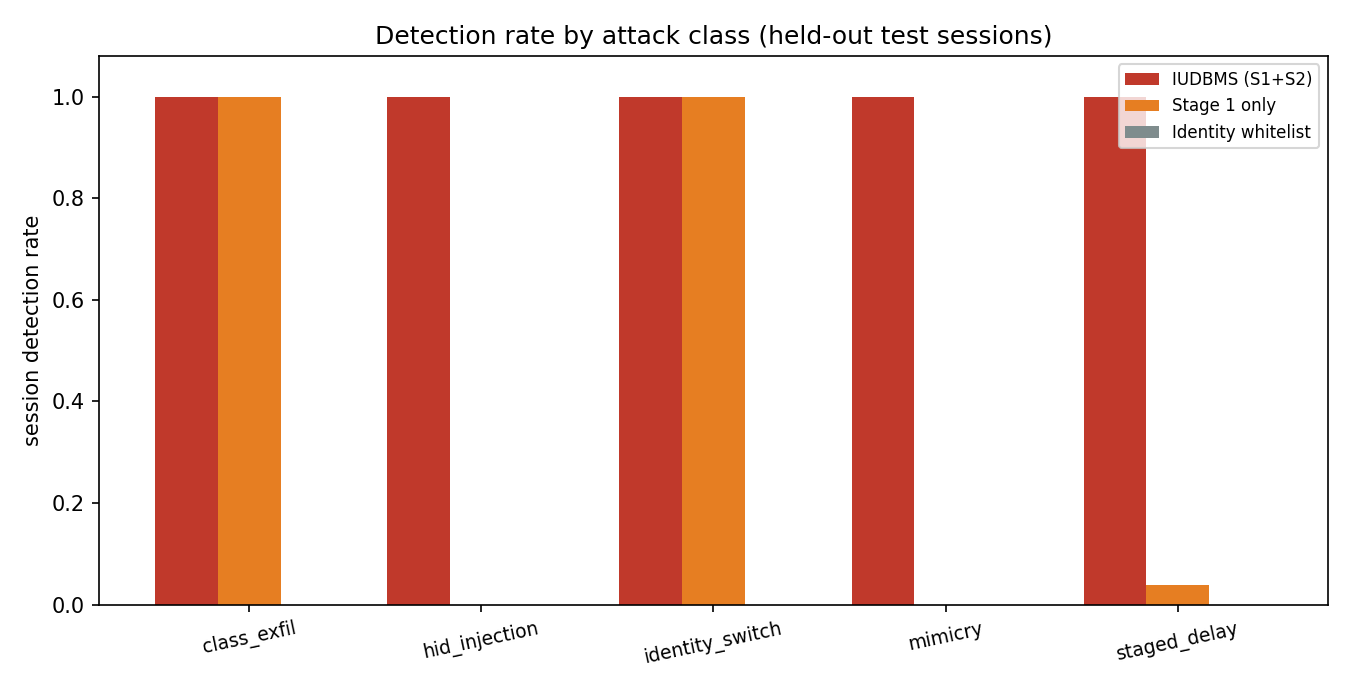
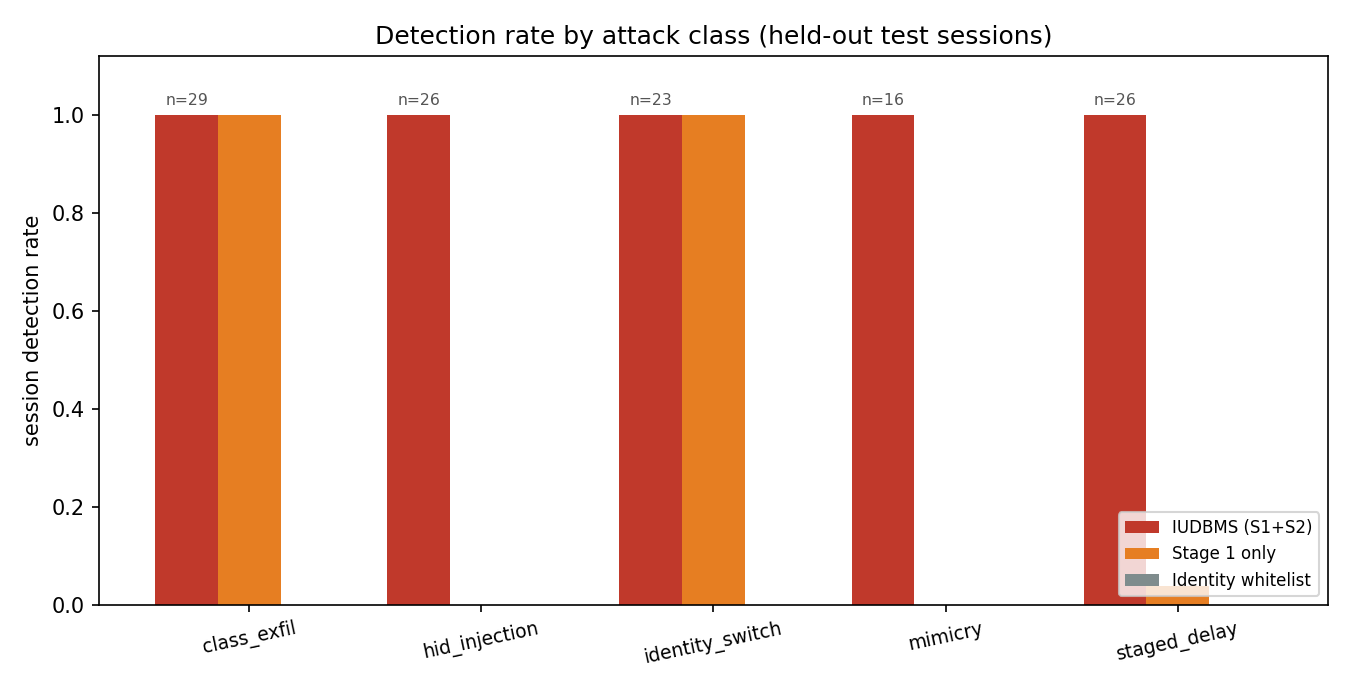
Figures for review: session timelines, ROC, novelty-decay evidence
Replaces the two stale PNGs left over from the Sprint-0 prototype run (they
still carried the old prototype numbers and would have been shown by mistake).

New figures:
  - session_timelines.png: one staged_delay and one mimicry device, showing
    both stage scores, the learned threshold, attack onset and the window the
    4-of-6 gate fires. This is the clearest single artefact the project has:
    Stage 1 sits flat through a staged attack while Stage 2 snaps at onset,
    and mimicry visibly oscillates across the threshold, which is why the
    persistence gate exists.
  - seq_novelty_decay.png: benign vs mimicry payload-sequence novelty at
    MATCHED window positions. This is the evidence that feature 29 measures
    behaviour rather than session position.
  - roc.png: regenerated against the current model rather than the prototype.
  - detection_by_class.png now annotates per-class test session counts.

diff --git a/eval/figures.py b/eval/figures.py
@@ -1,4 +1,4 @@
-"""Figures for the report. Every figure is regenerated by `eval.run_eval`."""
+"""Figures for the report. Every one is regenerated by `eval.run_eval`."""
 
 from __future__ import annotations
 
@@ -8,16 +8,52 @@ import matplotlib
 matplotlib.use("Agg")
 import matplotlib.pyplot as plt  # noqa: E402
 import numpy as np  # noqa: E402
+from sklearn.metrics import roc_curve  # noqa: E402
+
+from iudbms.contract import feature_index  # noqa: E402
 
 __all__ = ["write_figures"]
 
 C_FULL, C_S1, C_ID = "#c0392b", "#e67e22", "#7f8c8d"
+C_ONSET, C_ACT = "#27ae60", "#2980b9"
 
 
-def write_figures(out: Path, full, s1_only, modality, test) -> list[Path]:
+def _timeline(ax, s, result, title):
+    """One device session: both stage scores, the onset, and the action."""
+    t = s.t
+    ax.plot(t, result.stage1[s.sid], lw=1.3, color=C_S1,
+            label="Stage 1 (memoryless)")
+    ax.plot(t, result.stage2[s.sid], lw=2.1, color=C_FULL,
+            label="Stage 2 (LSTM, P(malicious))")
+    ax.axhline(result.threshold, ls="--", c="k", lw=1,
+               label=f"learned threshold {result.threshold:.3f}")
+    if s.onset is not None:
+        ax.axvline(s.onset, ls=":", c=C_ONSET, lw=2,
+                   label=f"attack onset {s.onset:.0f}s")
+
+    # first window where the 4-of-6 gate would have fired
+    above = (np.asarray(result.stage2[s.sid]) >= result.threshold).astype(int)
+    fired = None
+    for i in range(len(above)):
+        if above[max(0, i - 5):i + 1].sum() >= 4:
+            fired = float(t[i]) + 1.0
+            break
+    if fired is not None:
+        ax.axvline(fired, ls="-", c=C_ACT, lw=2,
+                   label=f"enforcement {fired:.0f}s")
+    ax.set_ylim(-0.03, 1.03)
+    ax.set_xlabel("time since enumeration (s)")
+    ax.set_ylabel("score")
+    ax.set_title(title, fontsize=10.5)
+    ax.legend(fontsize=7.5, loc="upper left", framealpha=.92)
+    return fired
+
+
+def write_figures(out: Path, full, s1_only, modality, test, y_true=None,
+                  p_full=None, p_s1=None) -> list[Path]:
     written = []
 
-    # --- detection rate by attack class ---
+    # --- 1. detection rate by attack class -------------------------------
     profiles = [p for p, v in sorted(full.per_profile.items()) if v["label"] == 1]
     if profiles:
         x = np.arange(len(profiles))
@@ -28,36 +64,110 @@ def write_figures(out: Path, full, s1_only, modality, test) -> list[Path]:
                0.27, label="Stage 1 only", color=C_S1)
         ax.bar(x + 0.27, [0.0] * len(profiles), 0.27,
                label="Identity whitelist", color=C_ID)
+        for i, p in enumerate(profiles):
+            ax.text(i - 0.27, full.per_profile[p]["detect_rate"] + 0.02,
+                    f"n={full.per_profile[p]['n']}", ha="center", fontsize=7.5,
+                    color="#555")
         ax.set_xticks(x)
         ax.set_xticklabels(profiles, fontsize=9, rotation=12)
         ax.set_ylabel("session detection rate")
-        ax.set_ylim(0, 1.08)
+        ax.set_ylim(0, 1.12)
         ax.set_title("Detection rate by attack class (held-out test sessions)")
-        ax.legend(fontsize=8)
+        ax.legend(fontsize=8, loc="lower right")
         fig.tight_layout()
         p = out / "detection_by_class.png"
-        fig.savefig(p, dpi=150)
-        plt.close(fig)
-        written.append(p)
+        fig.savefig(p, dpi=150); plt.close(fig); written.append(p)
 
-    # --- per-modality ablation (pillar N1) ---
+    # --- 2. per-modality ablation (pillar N1) ----------------------------
     if modality:
         names = list(modality)
         fig, ax = plt.subplots(figsize=(7, 4.4))
         vals = [modality[m].window["auc"] for m in names]
         ax.bar(names, vals, color="#2980b9", width=0.55)
         ax.axhline(full.window["auc"], ls="--", c=C_FULL, lw=1.6,
-                   label=f"all modalities fused  AUC={full.window['auc']:.3f}")
+                   label=f"all modalities fused  AUC={full.window['auc']:.4f}")
         for i, v in enumerate(vals):
-            ax.text(i, v + 0.012, f"{v:.3f}", ha="center", fontsize=8)
+            ax.text(i, v + 0.012, f"{v:.4f}", ha="center", fontsize=8)
         ax.set_ylabel("window ROC-AUC")
-        ax.set_ylim(0.4, 1.05)
+        ax.set_ylim(0.4, 1.06)
         ax.set_title("Single-modality ablation — does fusion earn its keep? (N1)")
-        ax.legend(fontsize=8)
+        ax.legend(fontsize=8, loc="lower left")
         fig.tight_layout()
         p = out / "modality_ablation.png"
-        fig.savefig(p, dpi=150)
-        plt.close(fig)
-        written.append(p)
+        fig.savefig(p, dpi=150); plt.close(fig); written.append(p)
+
+    # --- 3. ROC ----------------------------------------------------------
+    if y_true is not None and p_full is not None:
+        fig, ax = plt.subplots(figsize=(6, 5.2))
+        for name, pr, auc, c in (("Stage 1 only", p_s1, s1_only.window["auc"], C_S1),
+                                 ("IUDBMS (S1+S2)", p_full, full.window["auc"], C_FULL)):
+            if pr is None:
+                continue
+            fpr, tpr, _ = roc_curve(y_true, pr)
+            ax.plot(fpr, tpr, lw=2, color=c, label=f"{name}  AUC={auc:.4f}")
+        ax.plot([0, 1], [0, 1], "k--", lw=.8, label="identity-based defence (chance)")
+        ax.set_xlabel("false positive rate (benign windows)")
+        ax.set_ylabel("true positive rate (malicious windows)")
+        ax.set_title("Window-level ROC, held-out test set")
+        ax.legend(fontsize=8, loc="lower right")
+        fig.tight_layout()
+        p = out / "roc.png"
+        fig.savefig(p, dpi=150); plt.close(fig); written.append(p)
+
+    # --- 4. session timelines: the easy case and the hard one ------------
+    if full.stage2:
+        picks = []
+        for profile in ("staged_delay", "mimicry"):
+            cand = [s for s in test if s.profile == profile and s.sid in full.stage2]
+            if cand:
+                picks.append((profile, cand[0]))
+        if picks:
+            fig, axes = plt.subplots(len(picks), 1, figsize=(11, 4.0 * len(picks)))
+            axes = np.atleast_1d(axes)
+            titles = {
+                "staged_delay": "Staged BadUSB — human-like typing, then injection. "
+                                "Stage 1 misses it; the transition is what gives it away.",
+                "mimicry": "Mimicry — human-calibrated timing, replayed script. "
+                           "Detected only as payload-sequence novelty decays.",
+            }
+            for ax, (profile, s) in zip(axes, picks):
+                _timeline(ax, s, full, titles[profile])
+            fig.tight_layout()
+            p = out / "session_timelines.png"
+            fig.savefig(p, dpi=150); plt.close(fig); written.append(p)
+
+    # --- 5. what makes mimicry visible at all ----------------------------
+    mim = [s for s in test if s.profile == "mimicry" and s.sid in full.stage2]
+    ben = [s for s in test if s.profile == "keyboard"]
+    if mim and ben:
+        i = feature_index("payload_seq_novelty")
+        fig, ax = plt.subplots(figsize=(8, 4.2))
+        edges = np.arange(0, 90, 5)
+        for group, label, colour in ((ben, "benign keyboard", C_ONSET),
+                                     (mim, "mimicry (post-onset)", C_FULL)):
+            xs, ys = [], []
+            for lo, hi in zip(edges, edges[1:]):
+                vals = []
+                for s in group:
+                    m = (s.t >= lo) & (s.t < hi)
+                    if group is mim:
+                        m &= s.y == 1
+                    vals.extend(s.X[m][:, i].tolist())
+                if len(vals) >= 20:
+                    xs.append((lo + hi) / 2); ys.append(float(np.mean(vals)))
+            ax.plot(xs, ys, lw=2, marker="o", ms=4, color=colour, label=label)
+        ax.set_xlabel("window position in session (s)")
+        ax.set_ylabel("payload sequence novelty")
+        ax.set_ylim(0, 1.05)
+        ax.set_title("Why mimicry is detectable: a replayed script exhausts its own\n"
+                     "payload transitions, while a human keeps producing new ones",
+                     fontsize=10.5)
+        ax.legend(fontsize=8, loc="lower left")
+        ax.text(0.98, 0.06, "compared at matched window positions,\n"
+                            "so this is behaviour and not session position",
+                transform=ax.transAxes, ha="right", fontsize=7.5, color="#666")
+        fig.tight_layout()
+        p = out / "seq_novelty_decay.png"
+        fig.savefig(p, dpi=150); plt.close(fig); written.append(p)
 
     return written

diff --git a/eval/run_eval.py b/eval/run_eval.py
@@ -107,7 +107,7 @@ def main() -> int:
     banner("[3/5] ABLATIONS")
     print("\n-- Stage-1 only (isolates pillar N3: temporal modelling) --")
     s1_only = run_configuration(fit, val, test, name="Stage 1 only",
-                                feature_idx=deployed,
+                                feature_idx=deployed, keep_scores=True,
                                 use_stage2=False, seed=args.seed, verbose=False)
     results["stage1_only"] = s1_only
 
@@ -145,6 +145,11 @@ def main() -> int:
     results["identity_whitelist"] = idw
     print(f"  attack detection: {idw['attack_detect']:.1%}  "
           f"(expected 0% — attacks present benign descriptors)")
+
+    y_te = np.concatenate([s.y for s in test])
+    p_te = np.concatenate([full.stage2[s.sid] for s in test])
+    p_s1_te = np.concatenate([s1_only.stage2.get(s.sid, s1_only.stage1[s.sid])
+                              for s in test]) if s1_only.stage1 else None
 
     banner("[4/5] RESULTS")
     print("\nWindow level, held-out test set")
@@ -227,7 +232,8 @@ def main() -> int:
 
     if not args.no_figures:
         from .figures import write_figures
-        for f in write_figures(OUT, full, s1_only, modality, test):
+        for f in write_figures(OUT, full, s1_only, modality, test,
+                               y_true=y_te, p_full=p_te, p_s1=p_s1_te):
             print(f"  wrote {f.relative_to(OUT.parent)}")
 
     print(f"\n  total runtime {metrics['runtime_sec']}s")
